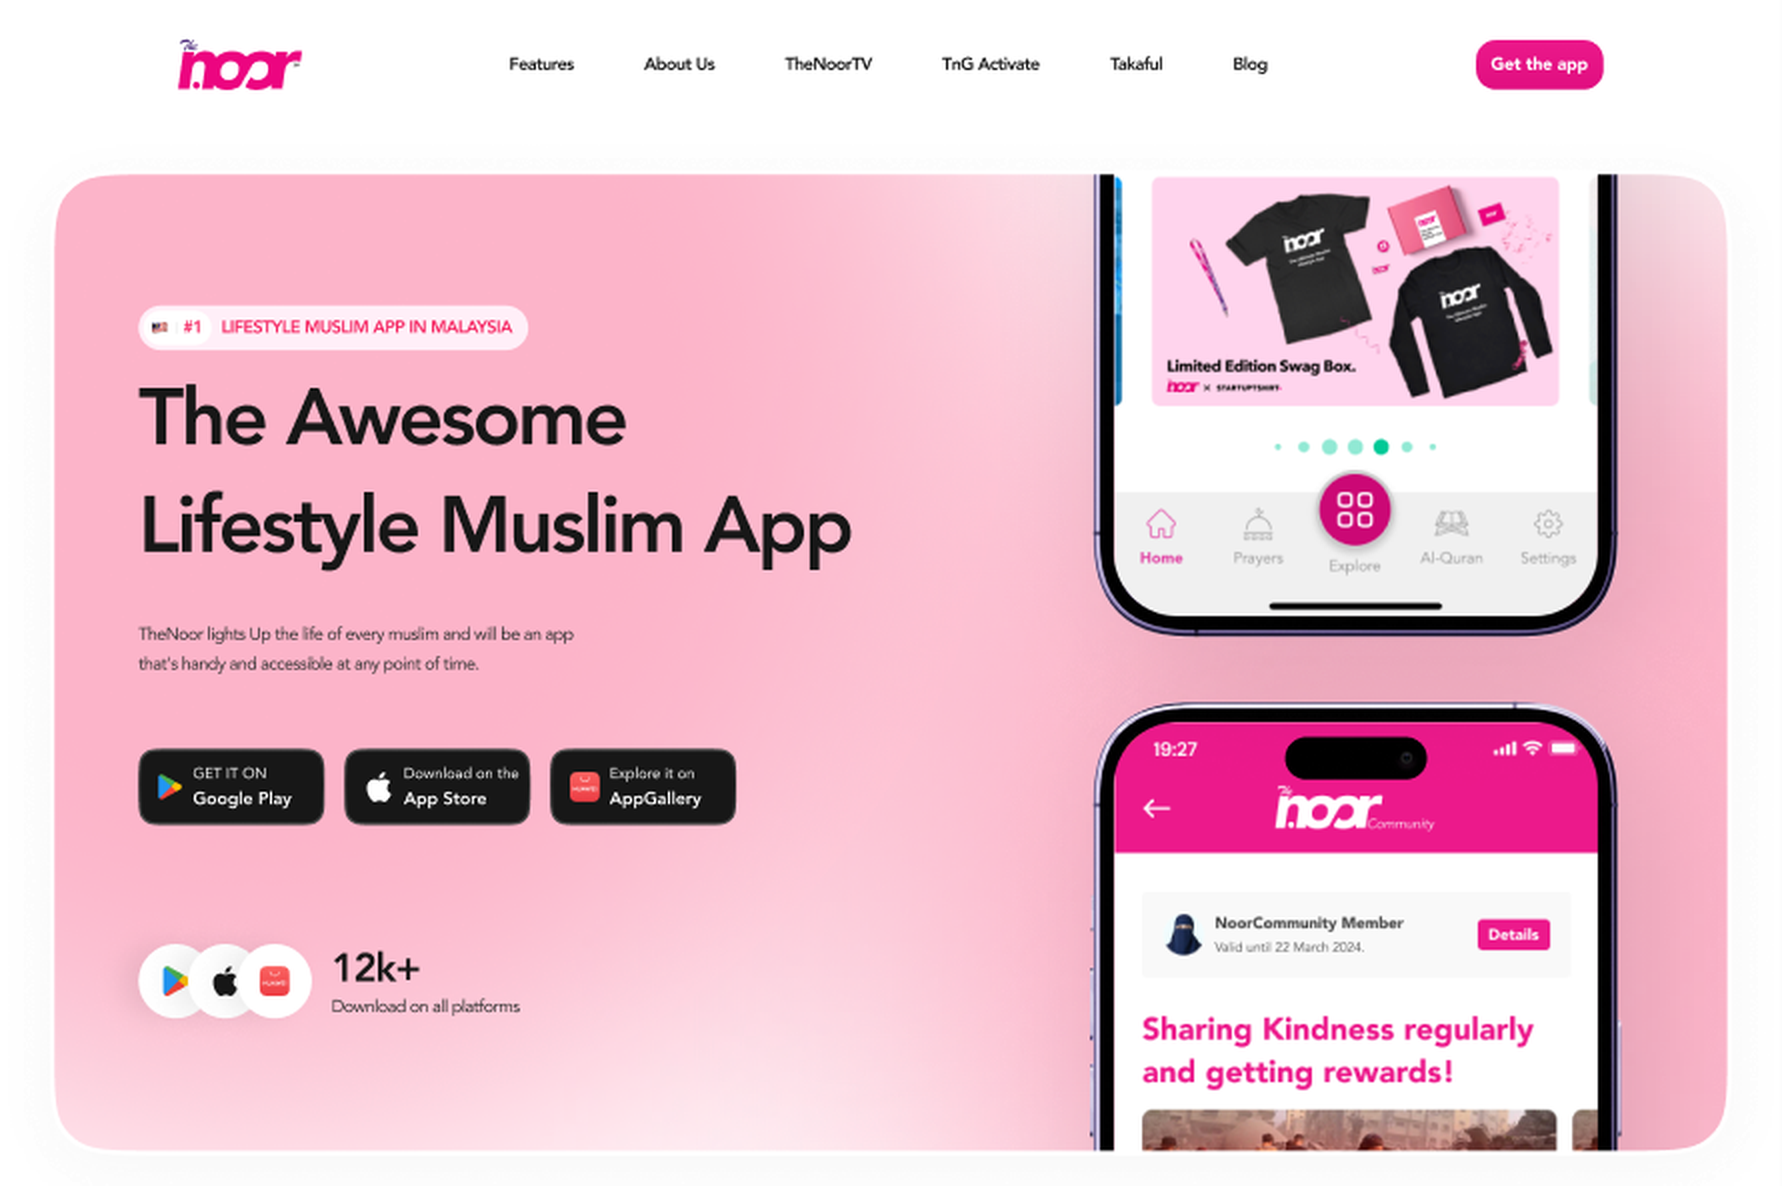
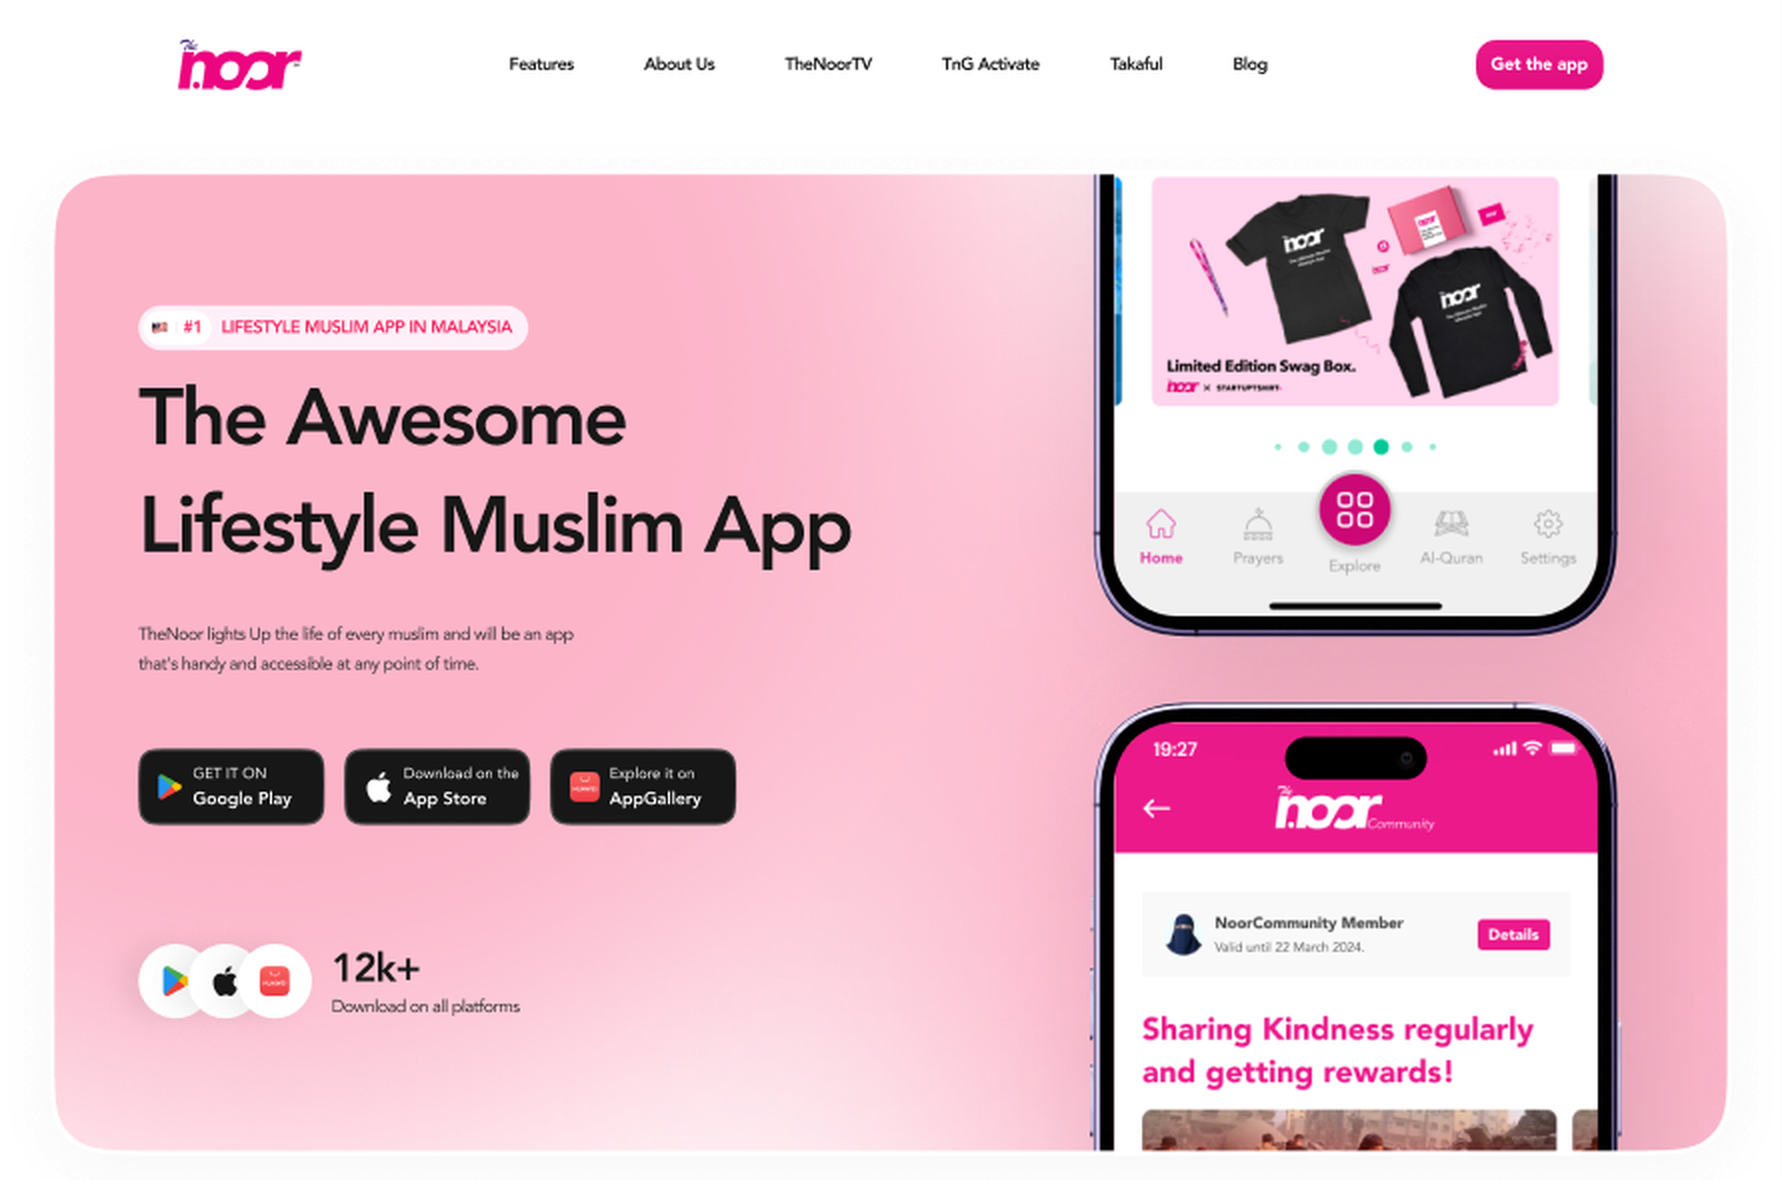
Fix cropped hero image on TheNoor & NoorCoffee case study
The cover image was cutting through a photo that peeks out below the
pink hero card. Re-cropped to end at the card's own clean boundary
instead of mid-image.

diff --git a/case-noorcoffee.html b/case-noorcoffee.html
@@ -63,7 +63,7 @@
   <div class="cs-cover reveal">
     <div class="device-mockup">
       <div class="device-stage">
-        <div class="device-screen" style="aspect-ratio: 1782 / 1186;">
+        <div class="device-screen" style="aspect-ratio: 1782 / 1180;">
           <img src="images/thenoor-web-hero.png" alt="TheNoor website homepage hero, The Awesome Lifestyle Muslim App">
         </div>
         <div class="device-base"></div>
